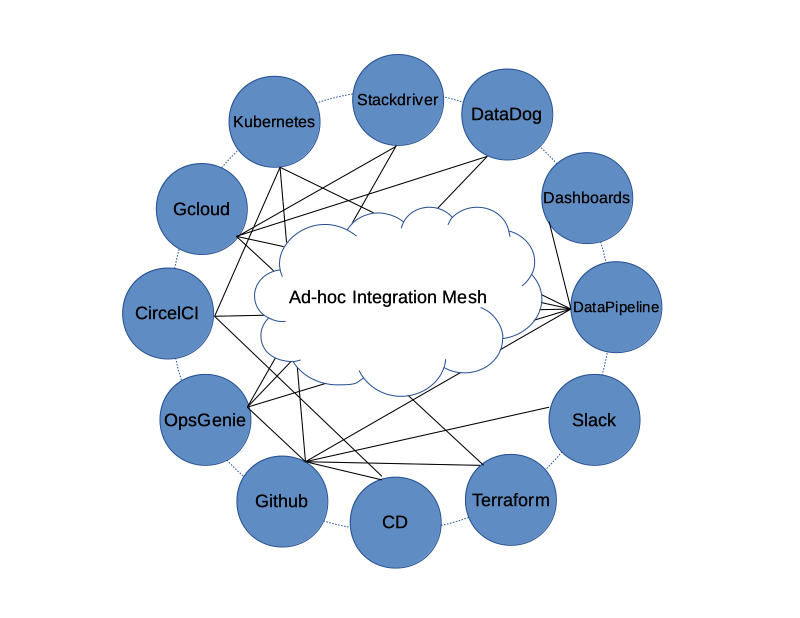
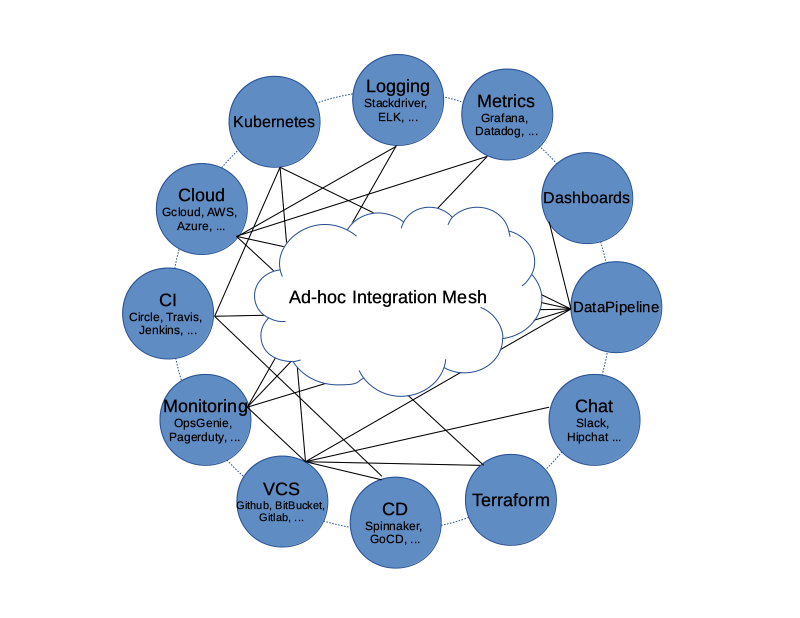
further wording changes

diff --git a/README.md b/README.md
@@ -32,11 +32,11 @@ For everyone, please find the main document index at [docs/README.md](./docs/REA
 ## Design
 
 ### Vision
-Engineers often use various systems, components to build and deliver services based on software products.  The systems and components need to interact with each other to achive automation. There are usually integration solutions that when implemented the components/systems can operate seamlessly.  However, the integrations are usually created or configured in ad-hoc fashion.  When the number of systems/components increases, the number of integrations and complexity of the integrations sometimes become unmanageable. All the systems/components are entangled in mesh (See below graph). A lot of redundant configuration or development work become necessary. It is so hard, sometimes even impossible, to switch from one tool to another.
+Engineers often use various systems and components to build and deliver services based on software products.  The systems and components need to interact with each other to achive automation. There are usually integration solutions that when implemented the components and systems can operate seamlessly.  However, the integrations are usually created or configured in ad-hoc fashion.  When the number of systems/components increases, the number of integrations and complexity of the integrations sometimes become unmanageable. All the systems/components are entangled in a mesh like network (See below graph). A lot of redundant configuration or development work become necessary. It is so hard, sometimes even impossible, to switch from one tool to another.
 
 ![Systems Ad-hoc Integration Mesh](./DevOpsSystemsAd-hocIntegrationMesh.png)
 
-The vision for Honeydipper is to provide an infrastructure so that the various systems and components can be plugged in together and the integrations can be composed using rules, workflows and abstracted entities like systems, projects and organizations. With a centralized orchestration, redundant configurations and deveopment work can be reduced or eliminated. With the abstraction layer, The underline tools and solutions become swappable.
+The vision for Honeydipper is to act as a central hub forming an ecosystem so that the various systems and components can be plugged in together and the integrations can be composed using rules, workflows and abstracted entities like systems, projects and organizations. With a centralized orchestration, redundant configurations and development work can be reduced or eliminated. With the abstraction layer, The underlying tools and solutions become swappable.
 
 ![Systems orchestrated with Honeydipper](./DevOpsSystemsHoneydipper.png)
 
